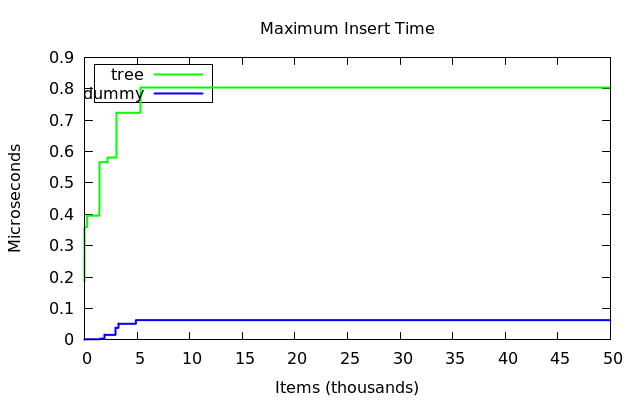
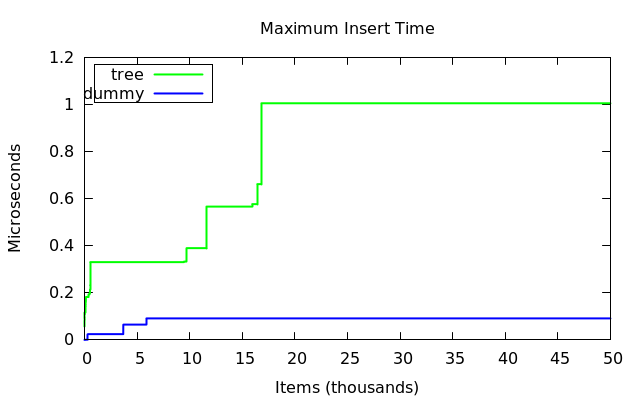
basicarray and tiered array

diff --git a/src/lazy-linear.cc b/src/lazy-linear.cc
@@ -187,6 +187,34 @@ struct TieredBitArray {
 vector<vector<bool> *> TieredBitArray::old_ones = vector<vector<bool> *>();
 
 template<typename T>
+struct BasicArray {
+  T * data;
+  BasicArray(const size_t n, const T& x) : data(reinterpret_cast<T*>(malloc(sizeof(T) * n))) {
+    for (size_t i = 0; i < n; ++i) {
+      data[i] = x;
+    }
+  }
+  BasicArray(const size_t n) : data(reinterpret_cast<T*>(malloc(sizeof(T) * n))) {}
+  BasicArray(const BasicArray&) = delete;
+  BasicArray& operator=(const BasicArray&) = delete;
+  const T& get(const size_t& i) const {
+    return data[i];
+  }
+  T& get(const size_t& i) {
+    return data[i];
+  }
+  void set(const size_t& i, const T& x) {
+    data[i] = x;
+  }
+  void swap(BasicArray * that) {
+    std::swap(data, that->data);
+  }
+  ~BasicArray() {
+    if (0 != data) free(data);
+  }
+};
+
+template<typename T>
 struct TieredArray {
   static size_t blog(size_t n) {
     assert (0 == (n & (n-1)));
@@ -197,16 +225,16 @@ struct TieredArray {
     }
     return ans;
   }
-  static vector<vector<T> *> old_ones;
+  static vector<BasicArray<T> *> old_ones;
 
   size_t shift;
-  vector<vector<T> *> data;
+  BasicArray<BasicArray<T> *> data;
   TieredArray(const size_t n) : shift(blog(n)), data(1ull << (shift/2), 0) {
 
   }
   ~TieredArray() {
-    for (auto& x : data) {
-      old_ones.push_back(x);
+    for (size_t i = 0; i < (1ull << (shift/2)); ++i) {
+      old_ones.push_back(data.get(i));
       //delete x;
       //x = 0;
     }
@@ -222,19 +250,19 @@ struct TieredArray {
   }
   const T& get(const size_t& i) const {
     assert (upper(i) < (1ull << (shift/2)));
-    assert (0 != data[upper(i)]);
-    return (*data[upper(i)])[lower(i)];
+    assert (0 != data.get(upper(i)));
+    return data.get(upper(i))->get(lower(i));
   }
   T& get(const size_t& i) {
     assert (upper(i) < (1ull << (shift/2)));
-    assert (0 != data[upper(i)]);
-    return (*data[upper(i)])[lower(i)];
+    assert (0 != data.get(upper(i)));
+    return data.get(upper(i))->get(lower(i));
   }
   void set(const size_t& i, const T& x) {
-    if (0 == data[upper(i)]) {
-      data[upper(i)] = new vector<T>(1ull << ((shift+1)/2));
+    if (0 == data.get(upper(i))) {
+      data.set(upper(i), new BasicArray<T>(1ull << ((shift+1)/2)));
     }
-    (*data[upper(i)])[lower(i)] = x;
+    data.get(upper(i))->set(lower(i),x);
     if (not old_ones.empty()) {
       delete old_ones.back();
       old_ones.pop_back();
@@ -242,33 +270,13 @@ struct TieredArray {
   }
   void swap(TieredArray * that) {
     std::swap(shift, that->shift);
-    data.swap(that->data);
+    data.swap(&that->data);
   }
 };
 
 template<typename T>
-vector<vector<T> *> TieredArray<T>::old_ones = vector<vector<T> *>();
+vector<BasicArray<T> *> TieredArray<T>::old_ones = vector<BasicArray<T> *>(0);
 
-template<typename T>
-struct BasicArray {
-  vector<T> data;
-  BasicArray(const size_t n) : data(n) {
-  }
-  BasicArray(const BasicArray&) = delete;
-  BasicArray& operator=(const BasicArray&) = delete;
-  const T& get(const size_t& i) const {
-    return data[i];
-  }
-  T& get(const size_t& i) {
-    return data[i];
-  }
-  void set(const size_t& i, const T& x) {
-    data[i] = x;
-  }
-  void swap(BasicArray * that) {
-    data.swap(that->data);
-  }
-};
 
 
 /*
@@ -334,7 +342,7 @@ struct slot {
   Key key;
 };
 
-template<typename Key, typename BitArray, typename Array = BasicArray<slot<Key> > >
+template<typename Key, typename BitArray, typename Array>
 struct lazier_map {
   BitArray occupied;
   Array data;
@@ -370,7 +378,7 @@ struct lazier_map {
     const auto i = locate(k);
     if (occupied.check(i)) return static_cast<size_t>(-1);
     occupied.set(i);
-    data.get(i).key = k;
+    data.set(i,slot<Key>({ k }));
     ++full;
     return i;
   }
@@ -424,7 +432,7 @@ struct lazier_map {
 
 };
 
-template<typename Key, typename Base = lazier_map<Key, AhoBitArray> >
+template<typename Key, typename Base>
 struct quiet_map {
   Base here, there;
   size_t progress;

diff --git a/src/benchmark/insert-maxtime.cc b/src/benchmark/insert-maxtime.cc
@@ -196,9 +196,11 @@ int main(int argc, char ** argv) {
   typedef std::set<sample_type> tree;
 
   typedef quiet_map<sample_type, lazy_map<sample_type> > try1;
-  typedef quiet_map<sample_type, lazier_map<sample_type, BasicBitArray> > try2;
-  typedef quiet_map<sample_type, lazier_map<sample_type, AhoBitArray> > try3;
-  typedef quiet_map<sample_type, lazier_map<sample_type, TieredBitArray> > try4;
+  //typedef quiet_map<sample_type, lazier_map<sample_type, BasicBitArray> > try2;
+  typedef quiet_map<sample_type, lazier_map<sample_type, BasicBitArray, BasicArray<slot<sample_type > > > > try2;
+  //typedef quiet_map<sample_type, lazier_map<sample_type, AhoBitArray> > try3;
+  typedef quiet_map<sample_type, lazier_map<sample_type, TieredBitArray, BasicArray<slot<sample_type > > > > try4;
+  typedef quiet_map<sample_type, lazier_map<sample_type, BasicBitArray, TieredArray<slot<sample_type > > > > try5;
 
   switch(which) {
   case 0:
@@ -220,7 +222,7 @@ int main(int argc, char ** argv) {
     test<try2, dummy>(size, samples);
     break;
   case 6:
-    test<try4, tree>(size, samples);
+    test<try5, dummy>(size, samples);
     break;
   }
 
